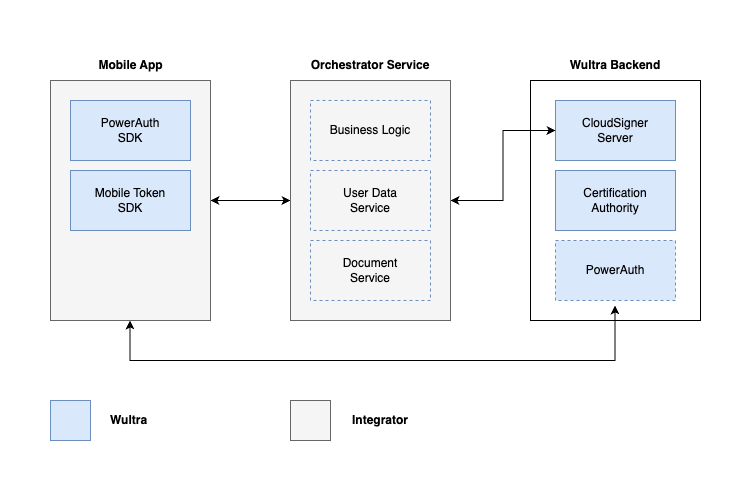
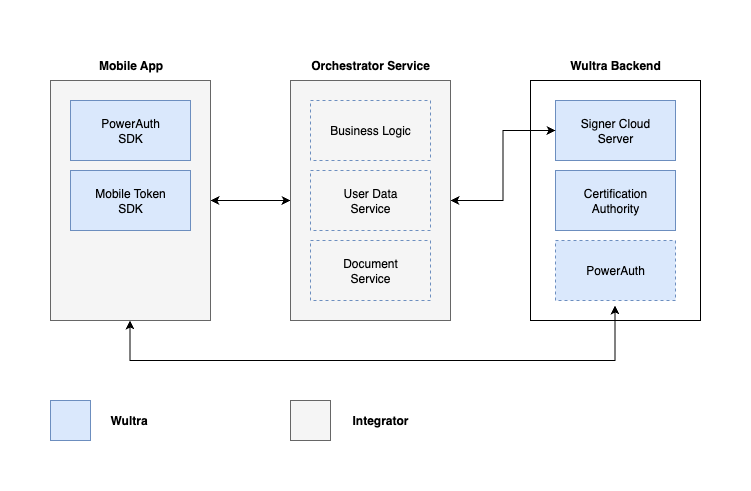
Fix #105: Pictures update and minor fixes (#115)
* Image updates - renamed CloudSigner to Signer Cloud

* fixed broken link

* fixed wrong reference to PDF ISO spec

diff --git a/docs/Introduction.md b/docs/Introduction.md
@@ -17,4 +17,4 @@ Signer Cloud supports PDF Advanced Electronic Signatures (PAdES) defined by ETSI
 
 PAdES is [recognized by eIDAS](https://ec.europa.eu/digital-building-blocks/sites/display/DIGITAL/Standards+and+specifications#Standardsandspecifications-PAdES(PDFAdvancedElectronicSignature)BaselineProfile) as [Advanced Electronic Signature](https://ec.europa.eu/digital-building-blocks/sites/display/DIGITAL/What+is+eSignature#WhatiseSignature-AdvancedElectronicSignatures(AdES)) (AdES).
 
-Signer Cloud supports **PDF 2.0** documents defined by ISO 32000-2 standard.
+Signer Cloud supports **PDF 1.7** documents defined by ISO 32000-1 standard.

diff --git a/docs/_Sidebar.md b/docs/_Sidebar.md
@@ -3,7 +3,7 @@
 - [Introduction](./Introduction.md)
 - [Basic Definitions](./Basic-Definitions.md)
 - [Architecture](./Architecture.md)
-- [Common Tasks](./Common-Tasks.md)
+- [User Journeys](./User-Journeys.md)
 
 **Technical Details**
 - [Integration](./Integration.md)
